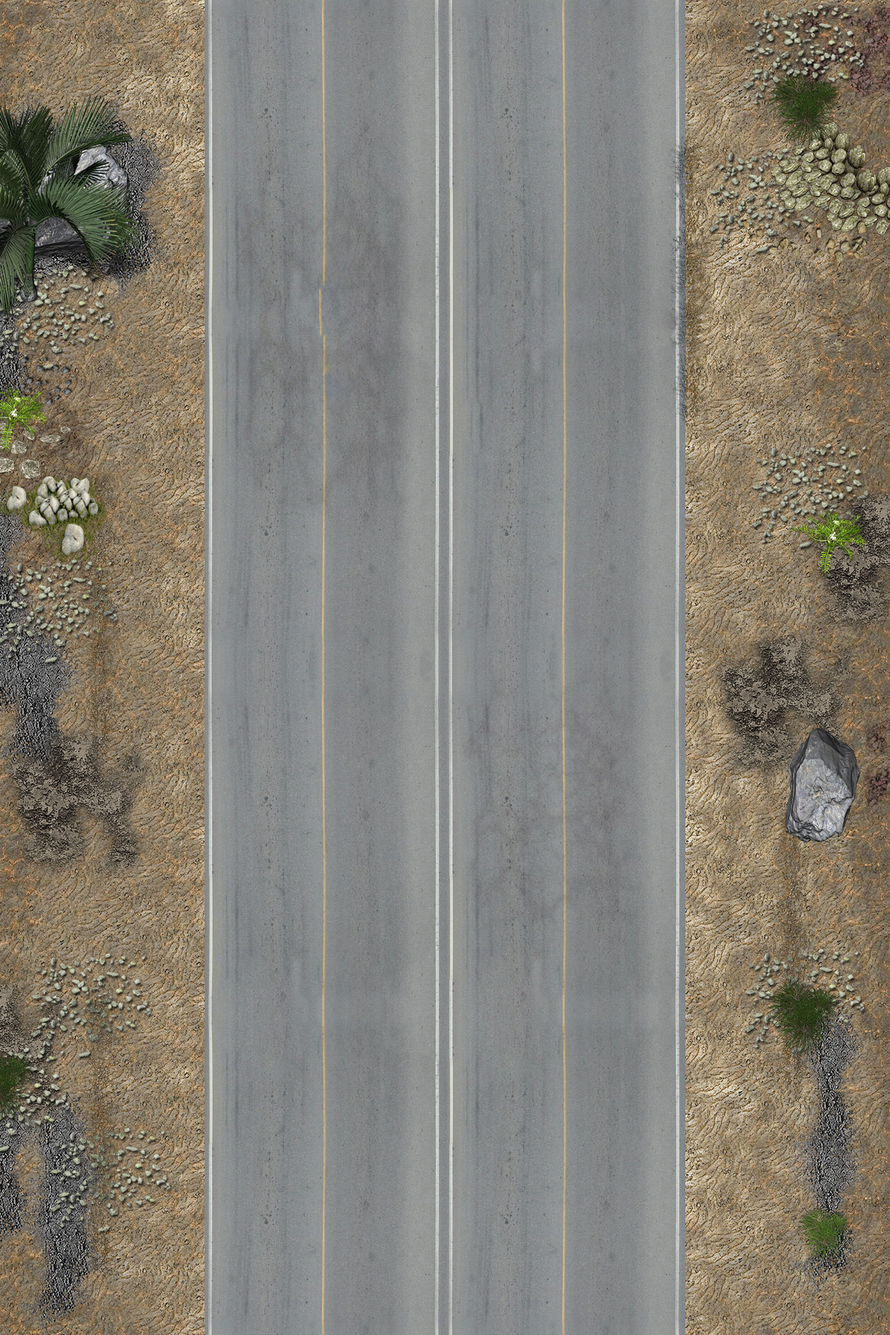
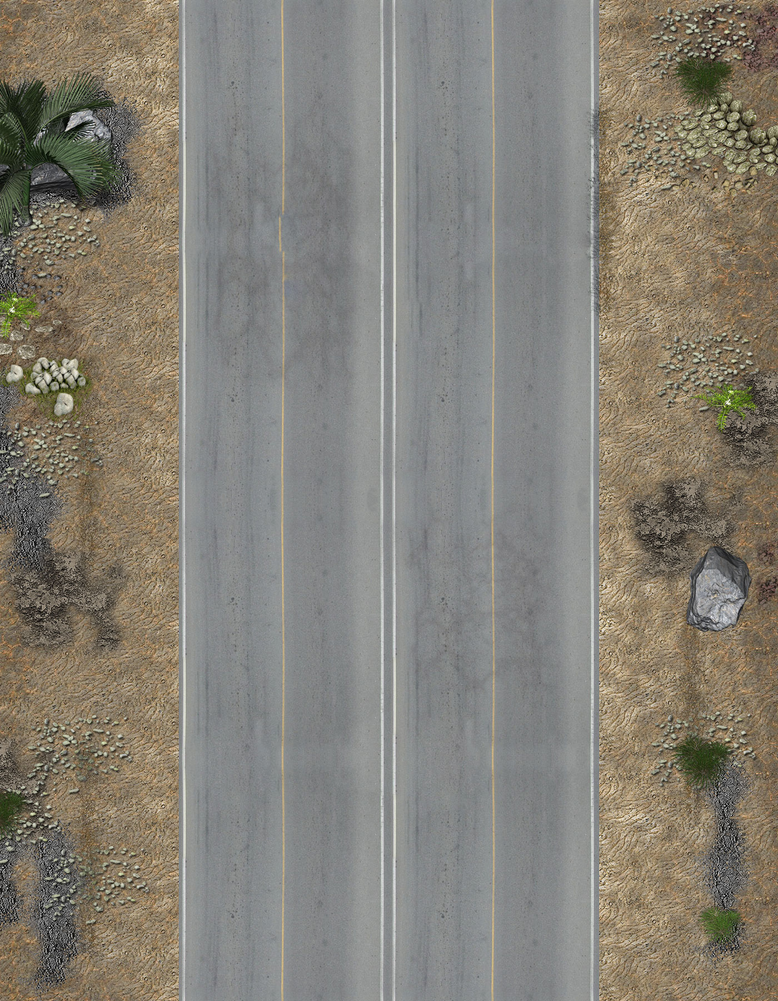
Tried to make spawn algo feel more like the classic.

diff --git a/script.js b/script.js
@@ -3,17 +3,17 @@
 
 const globals = {
   assets: {
-    highwayDriveWidth: 860,
-    highwayImgWidth: 1600,
-    highwayImgHeight: 2400,
+    highwayDriveWidth: 750,
+    highwayImgWidth: 1400,
+    highwayImgHeight: 1800,
   },
   gameplay: {
     spawnHeight: 240,
-    spawnEntropy: 70,
-    spawnMargin: 100,
-    spawnChance: .75,
+    spawnEntropy: 80,
+    spawnMargin: 30,
+    spawnChance: .5,
     minEnemies: 2,
-    drivingSteps: 5,
+    drivingSteps: 6,
   },
   carDefaults: {
     width: 50,
@@ -106,7 +106,7 @@ function moveGameplay ()
       globals.gameplay.spawnHeight = Math.max(.99 * globals.gameplay.spawnHeight, globals.carDefaults.height + globals.gameplay.spawnEntropy);
       globals.gameplay.drivingSteps *= 1.01;
 
-      highwayImgWidth = Math.max(.995 * highwayImgWidth, canvas.width);
+      highwayImgWidth = Math.max(.99 * highwayImgWidth, canvas.width);
       highwayDriveWidth = globals.assets.highwayDriveWidth * highwayImgWidth / globals.assets.highwayImgWidth;
 
       leftBound = (canvas.width - highwayDriveWidth) / 2;
@@ -119,6 +119,8 @@ function moveGameplay ()
     // Remove the enemy when it goes offscreen.
     if (enemy.y > canvas.height)
     {
+      enemy.dodged || score++;
+
       enemies.splice(index, 1);
 
       return;
@@ -161,10 +163,10 @@ function spawnEnemy ()
     if (enemies.length <= globals.gameplay.minEnemies || Math.random() <= globals.gameplay.spawnChance)
     {
       // Speed variation.
-      const speedVariation = globals.gameplay.drivingSteps * 2 / 3 + Math.random() * globals.gameplay.drivingSteps * 2 / 3;
+      const speedVariation = globals.gameplay.drivingSteps * 1 / 3 + Math.random() * globals.gameplay.drivingSteps * 1 / 2;
 
       const enemy = {
-        x: leftBound + Math.random() * (globals.assets.highwayDriveWidth - globals.carDefaults.width),
+        x: leftBound + Math.random() * (highwayDriveWidth - globals.carDefaults.width),
         y: -Math.random() * (globals.gameplay.spawnHeight - globals.carDefaults.height) - globals.carDefaults.height,
         color: 'red',
         speed: speedVariation * (Math.random() < .5 ? 1 : -1),

diff --git a/index.html b/index.html
@@ -18,7 +18,7 @@
 </head>
 
 <body>
-  <canvas id="gameCanvas" width="1000" height="800"></canvas>
+  <canvas id="gameCanvas" width="800" height="900"></canvas>
 
   <div style="display:none;">
     <img id="highway-img" src="assets/highway3.jpg" />
